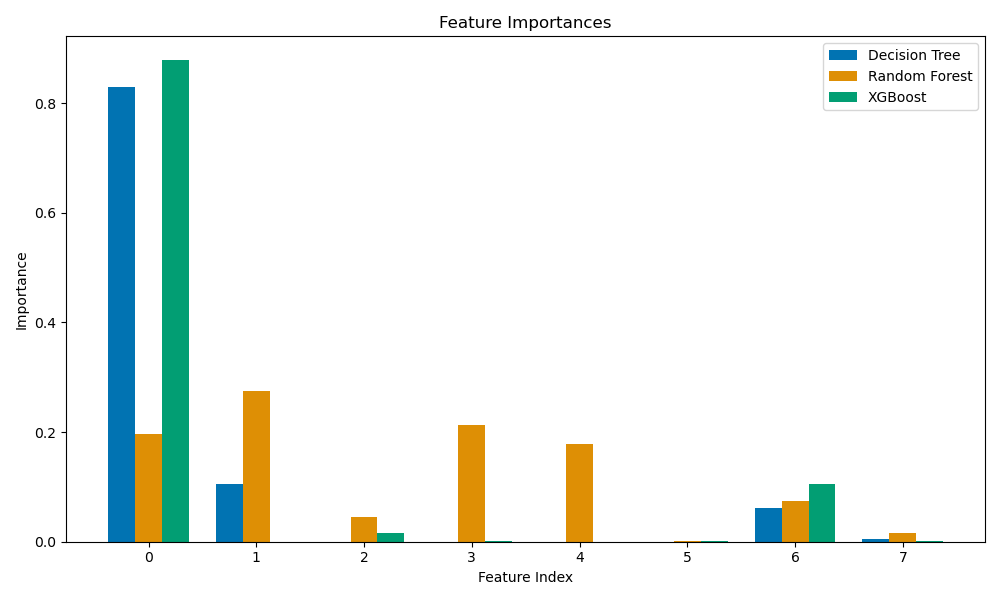
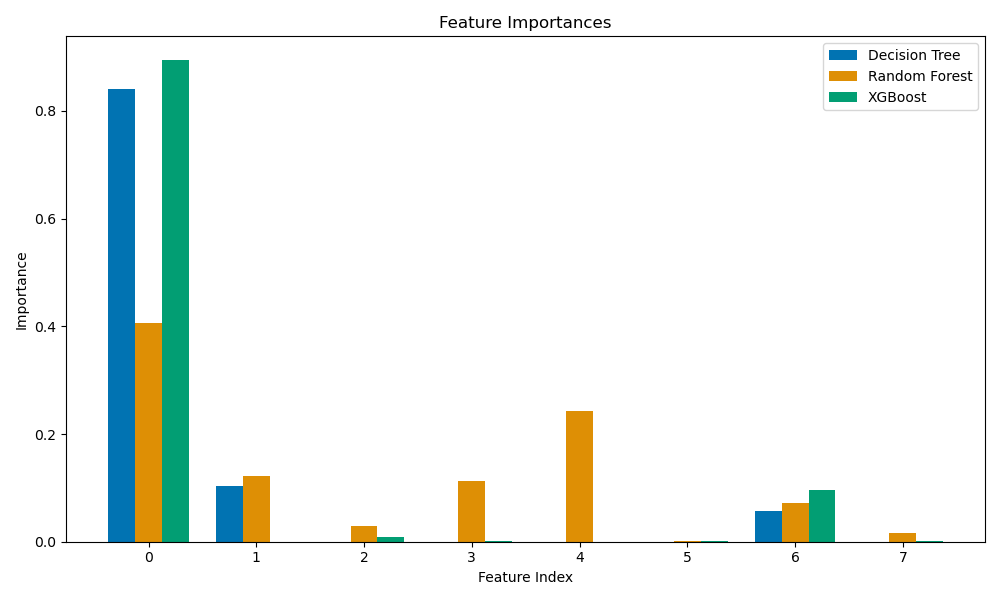
Update Ensemble Script

diff --git a/Week 7 - Ensemble Learning/ensemble.py b/Week 7 - Ensemble Learning/ensemble.py
@@ -11,6 +11,7 @@ from sklearn.ensemble import (RandomForestRegressor,
                               AdaBoostRegressor)
 
 from xgboost import XGBRegressor
+pd.set_option("display.precision", 3)
 
 
 
@@ -84,13 +85,13 @@ def train_regression_model(x_train, y_train, model='random_forest'):
 
     # Initialize the model
     if model == 'random_forest':
-        ensemble_model = RandomForestRegressor(n_estimators=100)
+        ensemble_model = RandomForestRegressor(n_estimators=20, max_depth=3)
     elif model == 'gradient_boosting':
-        ensemble_model = GradientBoostingRegressor(n_estimators=100)
+        ensemble_model = GradientBoostingRegressor(n_estimators=20)
     elif model == 'adaboost':
-        ensemble_model = AdaBoostRegressor(n_estimators=100)
+        ensemble_model = AdaBoostRegressor(n_estimators=20)
     elif model == 'xgboost':
-        ensemble_model = XGBRegressor(n_estimators=100)
+        ensemble_model = XGBRegressor(n_estimators=20)
     elif model == 'decision_tree':
         ensemble_model = DecisionTreeRegressor(max_depth=3)
     else:
@@ -102,7 +103,7 @@ def train_regression_model(x_train, y_train, model='random_forest'):
     return ensemble_model
 
 
-def generate_tree_model_predictions(ensemble_model, x_test):
+def generate_model_predictions(ensemble_model, x_test):
 
     # Generate predictions
     y_pred = ensemble_model.predict(x_test)
@@ -126,65 +127,97 @@ if __name__ == '__main__':
     # Read the data
     filename = 'data/ENB2012_data.csv'
     x_train, x_test, y_train, y_test = read_data_from_csv(filename, test_ratio=0.4)
-    
+
+    # Train the models
+    ensemble_models = ['decision_tree', 'random_forest', 'adaboost', 'xgboost']
+    trained_models = {}
+
     # Initialize the results data
-    res_data = {}
+    train_res_data = {}
+    test_res_data = {}
+    n_exp = 10
 
-    # Train Decision Tree Model
-    tree_model = train_regression_model(x_train, y_train, model='decision_tree')
-    y_pred = generate_tree_model_predictions(tree_model, x_test)
-    mse, r2 = evaluate_predictions(y_test, y_pred)
-    res_data['decision_tree'] = {'mse': mse, 'r2': r2}
+    for model_name in ensemble_models:
 
-    # Train Ensemble Model
-    forrest_model = train_regression_model(x_train, y_train, model='random_forest')
-    y_pred = generate_tree_model_predictions(forrest_model, x_test)
-    mse, r2 = evaluate_predictions(y_test, y_pred)
-    res_data['random_forest'] = {'mse': mse, 'r2': r2}
+        print("Training model: ", model_name)
 
-    # Train Ensemble Model
-    gradient_boosting_model = train_regression_model(x_train, y_train, model='gradient_boosting')
-    y_pred = generate_tree_model_predictions(gradient_boosting_model, x_test)
-    mse, r2 = evaluate_predictions(y_test, y_pred)
-    res_data['gradient_boosting'] = {'mse': mse, 'r2': r2}
+        # Train Decision Tree Model
+        train_mse = np.zeros(n_exp)
+        train_r2 = np.zeros(n_exp)
 
-    # Train Ensemble Model
-    adaboost_model = train_regression_model(x_train, y_train, model='adaboost')
-    y_pred = generate_tree_model_predictions(adaboost_model, x_test)
-    mse, r2 = evaluate_predictions(y_test, y_pred)
-    res_data['adaboost'] = {'mse': mse, 'r2': r2}
+        test_mse = np.zeros(n_exp)
+        test_r2 = np.zeros(n_exp)
 
-    # Train Ensemble Model
-    xgb_model = train_regression_model(x_train, y_train, model='xgboost')
-    y_pred = generate_tree_model_predictions(xgb_model, x_test)
-    mse, r2 = evaluate_predictions(y_test, y_pred)
-    res_data['xgboost'] = {'mse': mse, 'r2': r2}
+        for n in range(n_exp):
 
+            trained_models[model_name] = train_regression_model(x_train, y_train, model=model_name)
+            y_pred = generate_model_predictions(trained_models[model_name], x_train)
+            train_mse[n], train_r2[n] = evaluate_predictions(y_train, y_pred)
+
+            y_pred = generate_model_predictions(trained_models[model_name], x_test)
+            test_mse[n], test_r2[n] = evaluate_predictions(y_test, y_pred)
+
+        train_res_data[model_name] = {'mse_mean': train_mse.mean(),
+                                'mse_std': train_mse.std(),
+                                'r2_mean': train_r2.mean(),
+                                'r2_std': train_r2.std()}
+        
+        test_res_data[model_name] = {'mse_mean': test_mse.mean(),
+                                'mse_std': test_mse.std(),
+                                'r2_mean': test_r2.mean(),
+                                'r2_std': test_r2.std()}
+
+    
     # Train Stacking Model
-    base_models, meta_model = train_stacking_model(x_train, y_train)
-    y_pred = generate_stacking_model_predictions(base_models, meta_model, x_test, y_test)
-    mse, r2 = evaluate_predictions(y_test, y_pred)
-    res_data['stacking'] = {'mse': mse, 'r2': r2}
+    train_mse = np.zeros(n_exp)
+    train_r2 = np.zeros(n_exp)
+
+    test_mse = np.zeros(n_exp)
+    test_r2 = np.zeros(n_exp)
+
+    for n in range(n_exp):
+        base_models, meta_model = train_stacking_model(x_train, y_train)
+        y_pred = generate_stacking_model_predictions(base_models, meta_model, x_train, y_train)
+        train_mse[n], train_r2[n] = evaluate_predictions(y_train, y_pred)
+
+        y_pred = generate_stacking_model_predictions(base_models, meta_model, x_test, y_test)
+        test_mse[n], test_r2[n] = evaluate_predictions(y_test, y_pred)
+    
+    train_res_data['stacking'] = {'mse_mean': train_mse.mean(),
+                                'mse_std': train_mse.std(),
+                                'r2_mean': train_r2.mean(),
+                                'r2_std': train_r2.std()}
+
+    test_res_data['stacking'] = {'mse_mean': test_mse.mean(),
+                                'mse_std': test_mse.std(),
+                                'r2_mean': test_r2.mean(),
+                                'r2_std': test_r2.std()}
+
 
     # Display the results
-    res_df = pd.DataFrame(res_data)
+    res_df = pd.DataFrame(train_res_data)
+    print("\nTrain data performance results: ")
+    print(res_df)
+
+    res_df = pd.DataFrame(test_res_data)
+    print("\nTest data performance results: ")
     print(res_df)
 
     # Compare feature importances XGBoost
-    xgb_importances = xgb_model.feature_importances_
+    xgb_importances = trained_models['xgboost'].feature_importances_
     xgb_importances = xgb_importances / np.sum(xgb_importances)
 
-    tree_importances = tree_model.feature_importances_
+    tree_importances = trained_models['decision_tree'].feature_importances_
     tree_importances = tree_importances / np.sum(tree_importances)
 
-    forrest_importances = forrest_model.feature_importances_
+    forrest_importances = trained_models['random_forest'].feature_importances_
     forrest_importances = forrest_importances / np.sum(forrest_importances)
 
     # Plot the feature importances
     # Number of features
     n_features = x_train.shape[1]
 
-    # Create an array with the positions of the bars
+    # Create an array with the positions of the bars``
     indices = np.arange(n_features)
 
     # Width of a bar
